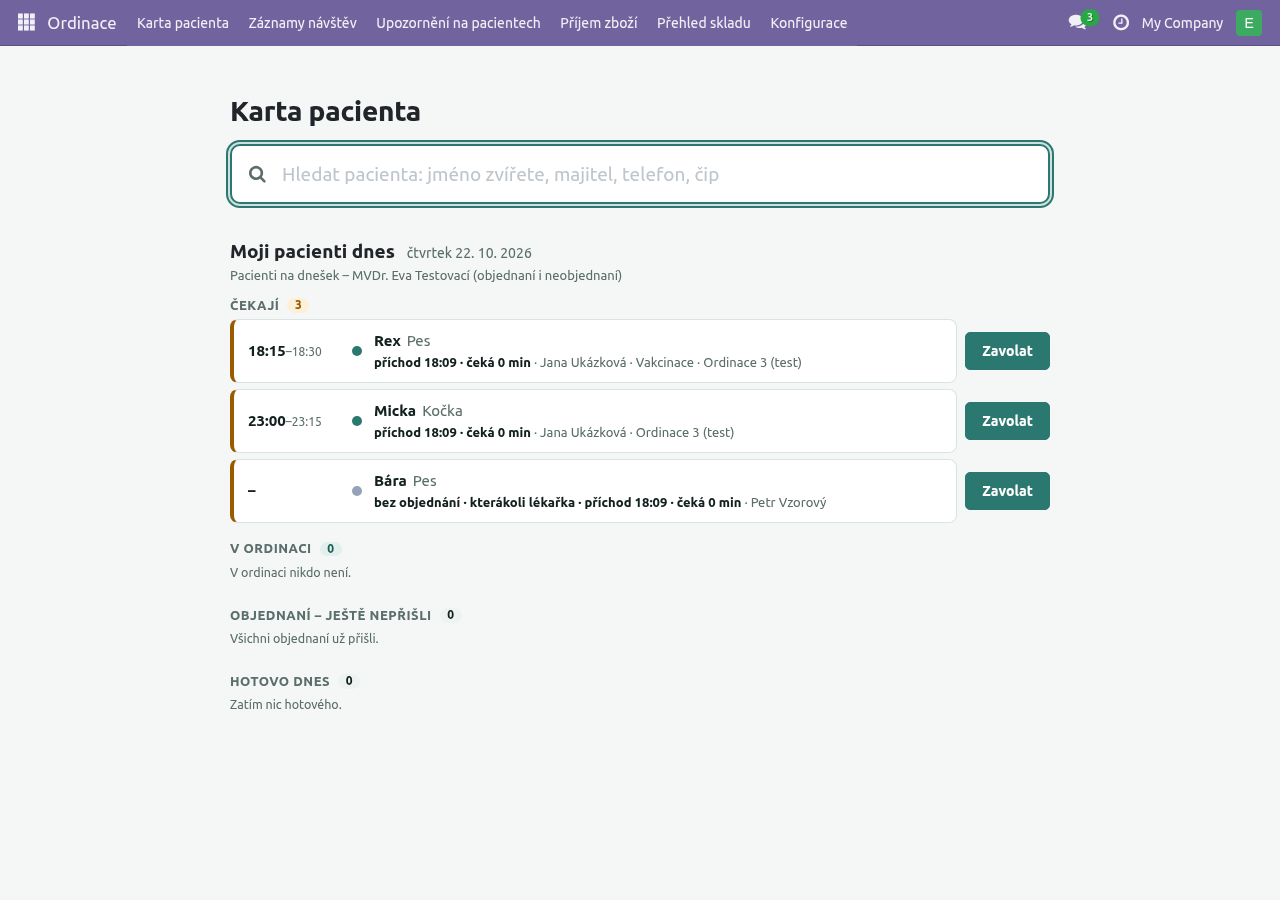
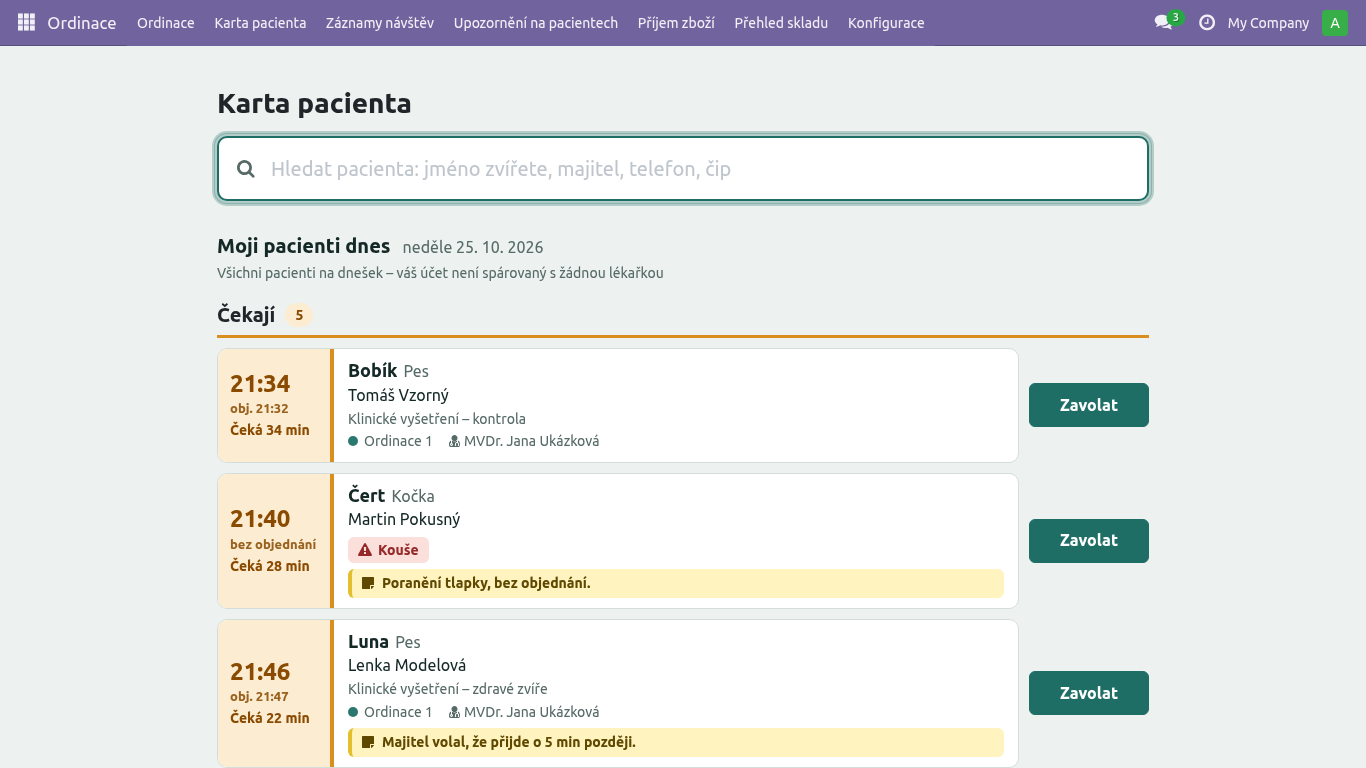
docs(elite-vet): Ordinace screens after the redesign, new screenshots, upgrade note

diff --git a/elite_vet/elite_vet_reception/doc/ordinace.md b/elite_vet/elite_vet_reception/doc/ordinace.md
@@ -23,54 +23,76 @@ počítači v ordinaci a používají ho všechny lékařky, které v ní slouž
 
 Výchozí obrazovka se nastaví sama. Když pole Ordinace smažete, účet se vrátí na kartu pacienta.
 
-## 2. Přepínač nahoře
+## 2. Záhlaví a přepínač
 
-Nahoře je **Všechny ordinace | Ordinace 1 | Ordinace 2 …**. Prohlížeč si volbu pamatuje. Účet
-ordinace ale vždy začne na své ordinaci. Vlastní účet lékařky nebo sestry začne na ordinaci, kde má
-podle Rozpisu lékařů službu (kapitola 6).
+Nahoře je název ordinace a **kdo v ní teď slouží** i s časem služby („Ve službě MVDr. …,
+7:00–14:00“). Když teď nikdo neslouží, je tam „Teď nikdo ve službě“ a dnešní služby. Vpravo je
+čas poslední aktualizace, tlačítko ⟳ a **přepínač ordinací** (rozbalovací seznam, první je
+**Všechny ordinace**). Prohlížeč si volbu pamatuje. Účet ordinace ale vždy začne na své
+ordinaci. Vlastní účet lékařky nebo sestry začne na ordinaci, kde má podle Rozpisu lékařů službu
+(kapitola 6).
 
-Každý pacient má na kartě nebo řádku tyto údaje:
-- čas příchodu, nebo čas rezervace u toho, kdo ještě nepřišel,
-- zvíře (druh) a majitele,
-- úkon,
-- stav: **Čeká N min** / **V ordinaci** / **Objednáno** / **Hotovo**,
-- lékařku a upozornění na pacientovi (červeně),
-- **poznámku recepce** (žlutě, s lístečkem) – co recepce napsala při příjmu, např. „Klient
-  spěchá“. Je interní, klient ji nevidí.
+**Pacient** vypadá všude stejně – na obrazovce Ordinace i v Moji pacienti dnes:
+
+- vlevo **barevný pruh s časem**: barva říká stav – **oranžová čeká**, **zelená je v ordinaci**,
+  **modrošedá je objednaná** (ještě nepřišla), **šedá je hotová**. Velký čas je příchod (u toho,
+  kdo ještě nepřišel, čas rezervace), pod ním „obj. 9:20“, když přišel jindy než na objednaný čas,
+  nebo „bez objednání“, a stav: **Čeká 12 min** / **V ordinaci od 9:25** / **Objednáno** / **Hotovo**;
+- vpravo zvíře (druh), majitel, úkon a lékařka;
+- **upozornění** na pacientovi červeně (kouše, alergie…);
+- **poznámka recepce** žlutě s lístečkem – co recepce napsala při příjmu, např. „Klient
+  spěchá“. Je interní, klient ji nevidí;
+- jedno **hlavní tlačítko** podle stavu: u čekajícího **Zavolat**, u pacienta v ordinaci
+  **Otevřít kartu**. Všechno ostatní je v nabídce **…**: **Otevřít kartu** (u čekajícího
+  a objednaného), **Poznámka recepce…** (upravit nebo smazat) a **Do jiné ordinace** (seznam
+  ordinací přímo v nabídce, a Nepřiřazení).
 
 Obrazovka se obnovuje sama: hned po každé změně (příjem, zavolání, přesun, Hotovo) a nejpozději
 každých 30 sekund. Tlačítkem ⟳ ji obnovíte hned.
 
 ## 3. Všechny ordinace
 
-Sloupce jsou **Nepřiřazení** a pak jedna ordinace vedle druhé. V hlavičce ordinace je, kdo v ní
-**teď slouží** (podle Rozpisu lékařů), nebo „nikdo ve službě“.
+![Všechny ordinace](img/ordinace-vsechny.png)
 
-Ve sloupci jsou části:
-- **V ordinaci**: pacient je zavolaný,
+Nahoře je souhrn: kolik pacientů **čeká**, kolik je **v ordinacích** a kolik je **nepřiřazených**.
+Pod ním jsou sloupce **Nepřiřazení** a pak jedna ordinace vedle druhé. V hlavičce ordinace je,
+kdo v ní **teď slouží** (podle Rozpisu lékařů), nebo „Teď nikdo ve službě“.
+
+Ve sloupci jsou části ve stejném pořadí jako v jedné ordinaci:
 - **Čekají**: pacient přišel a recepce ho přijala,
-- **Objednaní**: dnešní rezervace této ordinace, klient ještě nepřišel. Tyto karty nejdou přesouvat,
-- **Hotovo**: návštěva je uzavřená. Část je sbalená, klikem na ni se rozbalí.
+- **V ordinaci**: pacient je zavolaný,
+- **Dnes ještě přijdou**: dnešní rezervace této ordinace, klient ještě nepřišel. Tyto karty nejdou
+  přesouvat,
+- **Hotovo dnes: N**: uzavřené návštěvy, sbalené; klikem se rozbalí.
 
-**Přesun do ordinace:** kartu pacienta, který už přišel (Čeká nebo V ordinaci), přetáhněte myší do
-sloupce jiné ordinace. Přetažením do **Nepřiřazení** ordinaci zrušíte. Na dotykové obrazovce použijte
-tlačítko **Do ordinace…** na kartě a vyberte ordinaci. Tlačítko **Karta** otevře kartu pacienta.
+Prázdná část se neukazuje; prázdná ordinace má jen „Nikdo tu není.“
+
+**Přesun do ordinace:** pacienta, který už přišel (Čeká nebo V ordinaci), přetáhněte myší do
+sloupce jiné ordinace. Přetažením do **Nepřiřazení** ordinaci zrušíte. Na dotykové obrazovce
+použijte nabídku **…** › **Do jiné ordinace** a vyberte ordinaci.
+
+![Nabídka …](img/ordinace-menu.png)
 
 Přesun mění jen ordinaci návštěvy. **Rezervace zůstane ve své ordinaci**, takže tabule rezervací
 ukazuje pořád původní ordinaci.
 
 ## 4. Jedna ordinace
 
-Nahoře je název ordinace, kdo v ní teď slouží a dnešní služby („Dnes: MVDr. … 8:00–14:00“).
+![Jedna ordinace](img/ordinace-jedna.png)
 
-Pod tím je žlutý blok **Nepřiřazení – čekají na ordinaci**. Jsou v něm přijatí pacienti bez
-ordinace, typicky klienti bez objednání. Tlačítko **Vzít do této ordinace** pacienta přiřadí sem.
+Když na ordinaci čekají přijatí pacienti bez ordinace (typicky klienti bez objednání), je nahoře
+oranžový pruh „**2 pacienti čekají na ordinaci**“:
+- **Vzít dalšího** vezme do této ordinace toho, kdo čeká **nejdéle**;
+- **Zobrazit** rozbalí jejich seznam; u každého je **Vzít do této ordinace**.
 
-Dál je seznam ordinace: V ordinaci, Čekají (s minutami čekání), Objednaní, Hotovo.
+Pod pruhem jsou zleva doprava tři sloupce: **Čekají** (nejdéle čekající nahoře) | **V ordinaci** |
+**Dnes ještě přijdou**. Pod posledním je sbalené **Hotovo dnes: N**. Prázdný sloupec má jen
+krátký řádek („Nikdo nečeká.“). Na tabletu na výšku jsou sloupce pod sebou ve stejném pořadí.
 
 - **Zavolat** (u čekajícího): pacient jde do stavu V ordinaci a do této ordinace.
-- **Otevřít kartu**: otevře kartu pacienta na dnešní návštěvě, stejně jako v „Moji pacienti dnes“.
-  Zpět se vrátíte drobečkovou navigací nahoře (Ordinace).
+- **Otevřít kartu** (u pacienta v ordinaci, ostatní v nabídce …): otevře kartu pacienta na dnešní
+  návštěvě, stejně jako v „Moji pacienti dnes“. Zpět se vrátíte drobečkovou navigací nahoře
+  (Ordinace).
 - Návštěvu uzavírá karta pacienta jako dosud: **Hotovo, k pokladně**.
 
 ### Kdo je zapsaný jako lékařka
@@ -79,13 +101,13 @@ Když pacient nemá lékařku a dostane ordinaci (Zavolat, Vzít do této ordina
 lékařka, která v té ordinaci **teď slouží** podle Rozpisu lékařů.
 
 - Slouží jedna lékařka: zapíše se ona.
-- Slouží dvě: obrazovka se zeptá **Kdo pacienta převezme?** Můžete zvolit „Zatím nevybírat“
+- Slouží dvě: obrazovka se zeptá **Kdo pacienta převezme?** (i po Vzít dalšího). Můžete zvolit „Zatím nevybírat“
   a lékařku doplnit v kartě pacienta.
 - Neslouží nikdo: lékařka zůstane prázdná. Doplňte ji v kartě pacienta (pole Lékařka).
 - Pacient, který lékařku už má (z rezervace nebo z příjmu), ji **nezmění** ani při přesunu do jiné
   ordinace. Změnit ji jde kdykoli v kartě pacienta.
 - Lékařka přihlášená **vlastním účtem** (kapitola 6) se zapíše sama, když pacienta zavolá nebo vezme
-  do ordinace – i místo lékařky, která se doplnila automaticky (z rozpisu nebo z rezervace). Ručně
+  do ordinace (i Vzít dalšího) – i místo lékařky, která se doplnila automaticky (z rozpisu nebo z rezervace). Ručně
   vybranou lékařku nemění.
 
 ## 5. Recepce
@@ -95,8 +117,8 @@ lékařka, která v té ordinaci **teď slouží** podle Rozpisu lékařů.
   v Nepřiřazení a ordinace si ho vezme.
 - V pokladně v záložce Dnes, ve sloupci **Čekárna a ordinace**, je u pacienta jeho ordinace, pokud
   ji má.
-- Na obrazovce Ordinace může recepce pacienty přesouvat mezi ordinacemi. Zavolat může jen sestra
-  nebo lékařka.
+- Na obrazovce Ordinace může recepce pacienty přesouvat mezi ordinacemi a upravit poznámku recepce
+  (nabídka …). Zavolat může jen sestra nebo lékařka.
 
 „Moji pacienti dnes“ v kartě pacienta ukazují lékařce s vlastním účtem její dnešní pacienty.
 Účty ordinací používají obrazovku Ordinace.
@@ -144,7 +166,23 @@ Nové účty dostanou jazyk čeština, časové pásmo Europe/Prague a žádné 
 výchozí obrazovku a pokladnu (pokladnu dostane jen Recepce). Na konci se ukáže, kolik účtů vzniklo
 a kolik řádků se přeskočilo a proč.
 
-## 7. Tisk zprávy
+## 7. Karta pacienta
+
+![Karta pacienta](img/ordinace-v-ordinaci.png)
+
+- **Záhlaví:** jméno zvířete velkým písmem, pod ním druh, plemeno, pohlaví a věk; majitel
+  s telefonem, váha, čip, očkování. Vpravo stav dnešní návštěvy („**V ordinaci od 9:25**“,
+  „Čeká od 9:05“, „Hotovo, čeká u pokladny“) a **Ošetřuje: MVDr. …**. Upozornění (kouše,
+  alergie…) jsou velké červené štítky; klikem se upraví.
+- **Dnešní záznam** je uprostřed: čtyři velká pole vitálních hodnot s jednotkami, Anamnéza,
+  Vyšetření, Diagnóza a doporučení. Šablonu textu vložíte ikonou listu vpravo nad polem.
+  Záznam se ukládá sám: ikona mráčku = nic neuloženého, „Ukládám…“, pak „✓ Uloženo 9:31“.
+- **Účet** je vpravo: nahoře **Úkon** a **Lék ze skladu**, pod nimi položky, **Poznámka pro
+  recepci**, dole celkem, **Hotovo, k pokladně** a **Zpráva pro majitele**.
+- **Historie** je vlevo. Na menší obrazovce (pod 1280 px) je sbalená pod záznamem a účtem –
+  rozbalí se šipkou u nadpisu. Na tabletu na výšku je všechno pod sebou: záznam, účet, historie.
+
+## 8. Tisk zprávy
 
 **Zpráva z vyšetření** je PDF pro majitele (A4, česky). Tisknout ji může recepce, sestra, lékařka
 i vedení.

diff --git a/elite_vet/elite_vet_reception/README.md b/elite_vet/elite_vet_reception/README.md
@@ -313,6 +313,10 @@ Recepce a výš). Params `{room_id}` otevře jednu ordinaci. Návod: [doc/ordina
     arrived_time, called_time, waiting_minutes, pet_id, pet_name, species_label, owner, partner_id,
     procedure, doctor, doctor_id, room_id, alerts, reception_note, draggable` (jen dnešní rozepsaný
     záznam se stavem).
+- **`take_next_patient(room_id)`** (úkol 26, tlačítko **Vzít dalšího**): z Nepřiřazení vezme dnešní
+  rozepsaný záznam ve stavu Čeká s nejstarším příchodem (`arrived_at, id`) a přiřadí ho do ordinace
+  stejně jako `assign_room` (lékařka z rozpisu / převzetí, `needs_doctor`). Vrací tvar
+  `_record_dict` + `needs_doctor`, nebo `False`, když nikdo nečeká. Bez `room_id` UserError.
 - **`assign_room(record_id, room_id=False, doctor_id=False)`**: jen dnešní rozepsaný záznam
   („Do ordinace jde přiřadit jen dnešní rozepsanou návštěvu.“), `room_id` False = zpět do
   Nepřiřazení. Rezervace svou ordinaci nemění (tabule ukazuje rezervaci).
@@ -329,6 +333,14 @@ Recepce a výš). Params `{room_id}` otevře jednu ordinaci. Návod: [doc/ordina
   zprávou a záložně každých 30 s.
 - Práva: jako zbytek API (`_check_reception`), zápis přes `_records()` (sudo s příznakem API).
   Zavolat jen sestra a lékařka; recepce přiřazuje.
+- **Vzhled (úkol 26):** jeden designový systém pro klinické obrazovky – tokeny, dlaždice pacienta
+  (`elite_vet_clinic.VisitTileBody`, `visitTile()`), tlačítka a nabídka „…“ jsou v
+  `elite_vet_clinic/static/src/clinic_ui/`, kořen obrazovky má třídu `.ev-clinic`. Jedna ordinace:
+  pruh Nepřiřazení (Vzít dalšího / Zobrazit) a sloupce Čekají | V ordinaci | Dnes ještě přijdou
+  (Hotovo dnes sbalené). U pacienta jedno hlavní tlačítko podle stavu (Čeká → Zavolat, V ordinaci →
+  Otevřít kartu), ostatní v nabídce „…“ (komponenta `RoomMenu`, Odoo `Dropdown`): Otevřít kartu,
+  Poznámka recepce… (`set_reception_note`), Do jiné ordinace (`assign_room`). Přepínač ordinací je
+  `<select>`.
 
 ## Ordinace: Moji pacienti dnes (karta pacienta)
 
@@ -345,17 +357,20 @@ Recepce a výš). Params `{room_id}` otevře jednu ordinaci. Návod: [doc/ordina
 - `unassigned` (nový klíč odpovědi, pravidlo R17): dnešní rozepsaní neobjednaní bez lékařky ve stavu
   Čeká / V ordinaci, stejný tvar jako `items`. Plní se jen u filtrovaného seznamu lékařky (nefiltrovaný
   je má v `items`); úvodní obrazovka je ukazuje v Čekají s poznámkou „kterákoli lékařka“.
-- Skupiny: **Čekají** (rozepsaný záznam ve stavu Čeká, podle příchodu, „příchod 9:24 · čeká 6 min“,
-  tlačítko Zavolat), **V ordinaci**, **Objednaní – ještě nepřišli** (rezervace bez záznamu nebo se
+- Skupiny: **Čekají** (rozepsaný záznam ve stavu Čeká, podle příchodu, „Čeká 6 min“,
+  tlačítko Zavolat), **V ordinaci**, **Dnes ještě přijdou** (rezervace bez záznamu nebo se
   záznamem bez stavu), **Hotovo dnes** (uzavřený záznam; také rezervace ve stavu Proběhlá bez záznamu).
 - Neobjednaní (dnešní záznamy se stavem návštěvy bez rezervace, `walk_in: true`, `reservation_id: None`)
   jsou v `items` podle lékařky záznamu; bez lékařky jsou v `unassigned`.
 - **Zavolat** = `elite.vet.reception.call_patient(record_id)`, pak se otevře karta zvířete. Záznam bez
   lékařky dostane lékařku volajícího uživatele (když je spárovaný); tlačítko je během volání neaktivní.
-- Texty: „příchod 9:24 · čeká 6 min“, „od 9:30“ (zavoláno).
+- Řádek je sdílená dlaždice pacienta (úkol 26, `patientTile()` → `visitTile()`): velký čas příchodu
+  (nebo rezervace), „obj. 9:20“ / „bez objednání“, stav „Čeká 6 min“ / „V ordinaci od 9:30“, u
+  Dnes ještě přijdou a Hotovo štítek záznamu (Bez záznamu, Rozepsaný, Hotovo – k pokladně).
 - Pravidlo R5: když sestra nebo lékařka otevře kartu (ze seznamu, z tabule, z hledání …) a dnešní
   záznam je ve stavu Čeká, karta jednou zavolá `call_patient`; `card_data` zůstává jen pro čtení.
-  Chyba (např. role recepce) se tiše ignoruje. `_record_data` proto nese i `visit_stage`.
+  Chyba (např. role recepce) se tiše ignoruje. `_record_data` proto nese i `visit_stage`, a od
+  úkolu 26 `arrived_time` a `called_time` (štítek „Čeká od 9:05“ / „V ordinaci od 9:20“ v záhlaví karty).
 - Seznam se obnovuje zprávou na kanálu `elite_vet_reservation/changed` a záložně každých 30 s,
   dokud je vidět úvodní obrazovka.
 

diff --git a/elite_vet/elite_vet_reception/doc/recepce-v-pokladne.md b/elite_vet/elite_vet_reception/doc/recepce-v-pokladne.md
@@ -476,17 +476,21 @@ sestra a účet bez spárované lékařky vidí všechny.
 
 ![Moji pacienti dnes](img/ordinace-dnes.png)
 
+Pacient vypadá stejně jako na obrazovce Ordinace: vlevo barevný pruh s časem a stavem
+(oranžová čeká, zelená v ordinaci, modrošedá objednaný, šedá hotovo), vpravo zvíře, majitel,
+úkon, ordinace a lékařka. Klik na pacienta otevře jeho kartu.
+
 | Skupina | Kdo v ní je |
 |---|---|
-| **Čekají** | recepce je přijala, podle příchodu: „příchod 18:09 · čeká 6 min“, tlačítko **Zavolat**. Neobjednaní mají „bez objednání“; neobjednaní bez lékařky mají „**kterákoli lékařka**“ a vidí je všechny lékařky. |
-| **V ordinaci** | zavolaní, „od 18:15“ |
-| **Objednaní – ještě nepřišli** | dnešní rezervace, které recepce ještě nepřijala |
+| **Čekají** | recepce je přijala, podle příchodu: velký čas příchodu, „Čeká 6 min“, tlačítko **Zavolat**. Neobjednaní mají „bez objednání“; neobjednaní bez lékařky mají „**Kterákoli lékařka**“ a vidí je všechny lékařky. |
+| **V ordinaci** | zavolaní, „V ordinaci od 18:15“ |
+| **Dnes ještě přijdou** | dnešní rezervace, které recepce ještě nepřijala |
 | **Hotovo dnes** | uzavřené návštěvy (Hotovo, k pokladně) |
 
 Seznam se obnovuje sám, jakmile recepce někoho přijme (záložně každých 30 s).
 
 Když recepce při příjmu napsala **poznámku recepce**, je u pacienta žlutě (s ikonou lístečku)
-a v kartě pacienta žlutý pruh pod záhlavím „Poznámka recepce: …“. Je interní, klient ji nevidí.
+a v kartě pacienta žlutý pruh pod záhlavím „Poznámka recepce …“. Je interní, klient ji nevidí.
 
 ## 9. Zavolat a ošetření
 
@@ -499,7 +503,8 @@ a v kartě pacienta žlutý pruh pod záhlavím „Poznámka recepce: …“. Je
 
 ![Po zavolání](img/ordinace-v-ordinaci.png)
 
-4. Zapište návštěvu a účet v kartě pacienta (**+ Úkon**, **+ Lék ze skladu**, balíček).
+4. Zapište návštěvu a účet v kartě pacienta (**Úkon**, **Lék ze skladu**, **Přidat balíček**).
+   Jak je karta rozvržená, popisuje [Ordinace – 7. Karta pacienta](ordinace.md#7-karta-pacienta).
 5. Pro recepci můžete nad tlačítkem **Hotovo, k pokladně** napsat **Poznámku pro recepci**
    (interní, klient ji neuvidí) – recepce ji uvidí u účtu v K pokladně a před platbou. Ukládá
    se sama; opravit nebo smazat ji jde i po uzavření záznamu (dokud není zrušený).

diff --git a/elite_vet/nasazeni/UPGRADE-2026-10.md b/elite_vet/nasazeni/UPGRADE-2026-10.md
@@ -738,7 +738,7 @@ Co přibude:
   - v kartě pacienta tlačítko **Zpráva pro majitele** a ikona tiskárny v historii;
   - Tisk u záznamu návštěvy;
   - ikona v pokladně › Dnes › K pokladně.
-- Pole **Číslo KVL** u lékařky. Návod: `elite_vet_reception/doc/ordinace.md`, kapitola 7.
+- Pole **Číslo KVL** u lékařky. Návod: `elite_vet_reception/doc/ordinace.md`, kapitola 8.
 
 Pravidla a záloha jako v krocích 2–3. Pak jeden běh:
 
@@ -776,3 +776,28 @@ Kontrola:
 SELECT id, name, kvl_number FROM elite_vet_doctor WHERE active ORDER BY name;
 SELECT report_name, binding_model_id FROM ir_act_report_xml WHERE report_name = 'elite_vet_clinic.report_visit_document';
 ```
+
+## Doplnění: vzhled ordinací (úkol 26)
+
+Moduly: `elite_vet_clinic` (18.0.1.5.0) a `elite_vet_reception` (18.0.1.12.0).
+
+```bash
+docker compose stop odoo
+docker compose run --rm odoo odoo -d DATABAZE -u elite_vet_clinic,elite_vet_reception --stop-after-init --no-http
+docker compose start odoo
+```
+
+Schéma se nemění (žádný nový sloupec), mění se jen vzhled a přibývá metoda `take_next_patient`
+(tlačítko **Vzít dalšího**). Po aktualizaci obnovte stránku natvrdo (Ctrl+Shift+R) na všech
+počítačích a tabletech v ordinacích.
+
+Kontrola:
+- Ordinace › Ordinace › jedna ordinace: nahoře název, kdo slouží, přepínač ordinací vpravo;
+  sloupce Čekají | V ordinaci | Dnes ještě přijdou; u čekajícího Zavolat a nabídka „…“;
+- když čeká někdo bez ordinace, oranžový pruh s **Vzít dalšího** a **Zobrazit**;
+- Všechny ordinace: souhrn nahoře, přetažení pacienta do jiné ordinace funguje;
+- karta pacienta: větší písmo, velká pole vitálních hodnot, štítek „V ordinaci od …“ v záhlaví;
+- Moji pacienti dnes: stejné dlaždice pacientů jako na obrazovce Ordinace.
+
+Návod s obrázky: `elite_vet_reception/doc/ordinace.md` (kapitoly 2–4 a 7).
+

diff --git a/elite_vet/elite_vet_clinic/README.md b/elite_vet/elite_vet_clinic/README.md
@@ -174,6 +174,26 @@ pokladna).
   záznam text, vitální hodnotu nebo položku. Před otevřením PDF se rozepsané uloží. V historii je
   ikona `evpc-tl-print` u záznamů z Odoo.
 
+## Vzhled klinických obrazovek (úkol 26)
+
+Jeden designový systém pro kartu pacienta, Moji pacienti dnes a obrazovku Ordinace
+(elite_vet_reception): `static/src/clinic_ui/`.
+
+- `clinic_ui.scss`: tokeny na kořenové třídě `.ev-clinic` (`--ev-ground`, `--ev-paper`, `--ev-ink`,
+  `--ev-accent` jen pro hlavní akce, stavové barvy `--ev-waiting` / `--ev-in_room` / `--ev-booked` /
+  `--ev-done`, `--ev-alert`, `--ev-note`, poloměry 6 / 10 px, písmo 28 / 20 / 16 / 14 px), tlačítka
+  `.ev-btn`, `.ev-btn-primary`, `.ev-icon-btn` (40 px, dotyková plocha 44 px), štítky `.ev-chip-*`,
+  nadpis skupiny `.ev-group-head`, dlaždice pacienta `.evt` a nabídka `.ev-clinic-menu`. Respektuje
+  `prefers-reduced-motion`, viditelný fokus.
+- `clinic_ui.xml`: `elite_vet_clinic.VisitTileBody` – vnitřek dlaždice (pruh s časem a stavem,
+  zvíře, majitel, úkon, ordinace, lékařka, upozornění, poznámka recepce). Kořen (`div` nebo `button`
+  s `.evt .evt-<stav>`) a akce dává volající.
+- `clinic_ui.js`: `visitTile(item, state, opts)`, `visitStateText()`, `plural()`.
+- Karta: `.evpc` proměnné jsou aliasy tokenů. Základ 16 px; ≥ 1280 px tři sloupce (historie |
+  záznam | účet), 900–1279 px záznam | účet a historie sbalená pod nimi (`state.historyOpen`), pod
+  900 px vše pod sebou. Záhlaví: štítek návštěvy (`visitChip`, z `visit_stage`, `arrived_time`,
+  `called_time` z elite_vet_reception) a „Ošetřuje“. Šablona textu = ikona v záhlaví pole.
+
 ## Testy
 
 `bash elite_vet/nasazeni/testy-clinic.sh` (poprvé, instalace), dál
